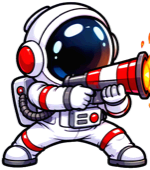
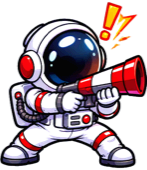
Quái vật chọi đá lại, phi hành gia ngã; thay hình phi hành gia mới
Bắn trật thì con quái không chỉ nhe răng cười nữa: nó vung tay chọi một hòn
đá xuống, đá bay xoay tròn trúng đầu phi hành gia, nổ mảnh vụn, phi hành gia
bật ngửa rồi nằm bệt sao bay quanh đầu. Nhịp chờ khi sai nới từ 2,2 lên 2,8
giây cho bé kịp xem hết.

Hình mới
- Thay phi hành gia cũ bằng bản mới cắt gọn hơn (bản cũ bị xén mất một phần
  tia lửa đầu nòng), thêm hai dáng: trúng đá và nằm ngã.
- Cắt thêm 15 dáng quái đang ném đá từ tấm sticker mới, cộng hòn đá và mảnh
  vụn. Giờ mỗi con quái có ba trạng thái: dữ tợn, đang ném, bị hạ.

Hai chỗ phải xử lý
- Luật "giữ mảnh lớn nhất" lúc cắt làm mấy con quái mất tròng mắt, vì con
  ngươi là mảnh rời nằm lọt trong tròng trắng. Giờ giữ thêm mảnh nhỏ nào nằm
  trọn trong khung thân quái, nhưng vẫn bỏ hòn đá và vệt tốc độ ở ngoài.
- Ảnh đang ẩn bị trình duyệt để tới lúc cần mới tải, đổi dáng xong trống mất
  một nhịp. Nạp trước toàn bộ ảnh ngay khi dựng màn.
- Ba con quái cao thấp khác nhau nên nhãn đáp án so le; cho ảnh vào ô cao cố
  định và đặt sát đáy, nhãn thẳng một hàng.

check-vu-tru.js kiểm 45 tệp quái (3 trạng thái × 15 con), tám tệp hiệu ứng,
và đòi man-ban.js phải có đoạn chọi đá cùng đủ ba dáng phi hành gia.

diff --git a/js/man-ban.js b/js/man-ban.js
@@ -85,17 +85,18 @@
     var quaiDS = nhanDS.map(function (nhan, i) {
       var o = el('div', 'con-quai');
       o.dataset.nhan = nhan;
-      var hs = anh('quai/' + tenQuai[i] + '-song.png', 'quai-hinh hinh-song');
-      var hc = anh('quai/' + tenQuai[i] + '-chet.png', 'quai-hinh hinh-chet');
-      o.appendChild(hs);
-      o.appendChild(hc);
+      o.appendChild(anh('quai/' + tenQuai[i] + '-song.png', 'quai-hinh hinh-song'));
+      o.appendChild(anh('quai/' + tenQuai[i] + '-nem.png', 'quai-hinh hinh-nem'));
+      o.appendChild(anh('quai/' + tenQuai[i] + '-chet.png', 'quai-hinh hinh-chet'));
       o.appendChild(el('span', 'quai-nhan', nhan));
       dau.appendChild(o);
       return o;
     });
 
-    var phg = el('div', 'phi-hanh-gia');
-    phg.appendChild(anh('phi-hanh-gia.png', 'phg-hinh'));
+    var phg = el('div', 'phi-hanh-gia dang-ngam');
+    phg.appendChild(anh('phi-hanh-gia.png', 'phg-hinh hinh-ngam'));
+    phg.appendChild(anh('phg-trung.png', 'phg-hinh hinh-trung'));
+    phg.appendChild(anh('phg-nga.png', 'phg-hinh hinh-nga'));
     phg.appendChild(anh('lua-sung.png', 'phg-lua'));
     dau.appendChild(phg);
     san.appendChild(dau);
@@ -139,6 +140,7 @@
         o.style.width = Math.round(rongQuai) + 'px';
         o.style.left = Math.round((i + 0.5) / n * rong - rongQuai / 2) + 'px';
         o.style.top = Math.round(Math.max(8, cao * 0.05)) + 'px';
+        o.style.height = '116px';
       });
       x = Math.min(Math.max(x || (rong / 2 - RONG_PHG / 2), 4), rong - RONG_PHG - 4);
       return true;
@@ -227,12 +229,61 @@
         dau.appendChild(tim);
       } else {
         muc.classList.add('nhon-nhao');
+        choiDaLai(muc);
         var oDung = quaiDS.filter(function (o) { return o.dataset.nhan === String(cau.answer); })[0];
-        if (oDung) setTimeout(function () { oDung.classList.add('chi-ra'); }, 500);
+        if (oDung) setTimeout(function () { oDung.classList.add('chi-ra'); }, 900);
       }
 
       thaoPhim();
       if (tuyChon.khiTraLoi) tuyChon.khiTraLoi(dung, nhan, phanHoi);
+    }
+
+    /* --- bắn trật thì con quái chọi đá lại, phi hành gia ngã --- */
+    function choiDaLai(muc) {
+      setTimeout(function () {
+        if (!dau.isConnected) return;
+        muc.classList.remove('nhon-nhao');
+        muc.classList.add('dang-nem');
+
+        var tuX = muc.offsetLeft + muc.offsetWidth * 0.78;
+        var tuY = muc.offsetTop + muc.offsetHeight * 0.5;
+        var toiX = x + RONG_PHG * 0.5;
+        var toiY = cao - 10 - CAO_PHG * 0.62;
+
+        var da = anh('da.png', 'hon-da');
+        da.style.left = tuX + 'px';
+        da.style.top = tuY + 'px';
+        dau.appendChild(da);
+
+        requestAnimationFrame(function () {
+          da.style.transition = 'transform 0.42s cubic-bezier(0.35, 0, 0.9, 1)';
+          da.style.transform = 'translate(-50%,-50%) translate(' + (toiX - tuX) + 'px,' +
+            (toiY - tuY) + 'px) rotate(540deg)';
+        });
+
+        setTimeout(function () {
+          if (da.parentNode) da.parentNode.removeChild(da);
+          if (!dau.isConnected) return;
+          // trúng đá: bật ngửa ra rồi nằm luôn
+          doiDangPhg('trung');
+          var vun = anh('da-vun.png', 'da-vun-bay');
+          vun.style.left = toiX + 'px';
+          vun.style.top = toiY + 'px';
+          dau.appendChild(vun);
+          setTimeout(function () { if (vun.parentNode) vun.parentNode.removeChild(vun); }, 620);
+          setTimeout(function () {
+            if (dau.isConnected) doiDangPhg('nga');
+          }, 360);
+        }, 440);
+      }, 240);
+    }
+
+    var dangPhg = 'ngam';
+    function doiDangPhg(d) {
+      if (d === dangPhg) return;
+      phg.classList.remove('dang-' + dangPhg);
+      phg.classList.add('dang-' + d);
+      dangPhg = d;
     }
 
     /* --- nút bấm và bàn phím --- */
@@ -276,6 +327,19 @@
       document.removeEventListener('keydown', nghePhim);
       document.removeEventListener('keyup', thaPhim);
     }
+
+    // Ảnh đang ẩn thì trình duyệt hay để tới lúc cần mới tải, đổi dáng xong
+    // lại trống một nhịp. Nạp trước hết cho chắc.
+    tenQuai.forEach(function (t) {
+      ['song', 'nem', 'chet'].forEach(function (d) {
+        var i = new Image();
+        i.src = GOC + 'assets/vu-tru/quai/' + t + '-' + d + '.png';
+      });
+    });
+    ['phg-trung', 'phg-nga', 'da', 'da-vun', 'ten-lua', 'no'].forEach(function (t) {
+      var i = new Image();
+      i.src = GOC + 'assets/vu-tru/' + t + '.png';
+    });
 
     if (doSan()) { datChoPhg(); ngam(); }
     hen = requestAnimationFrame(vong);

diff --git a/css/style.css b/css/style.css
@@ -2821,19 +2821,32 @@ body.khoa-cuon { overflow: hidden; }
   transition: transform 0.18s ease;
 }
 
+/* Ba con quái cao thấp khác nhau, nhưng nhãn đáp án phải thẳng một hàng thì
+   nhìn mới gọn, nên cho ảnh vào một ô cao cố định và đặt sát đáy ô. */
 .con-quai .quai-hinh {
   display: block;
-  width: 100%;
-  height: auto;
+  width: auto;
+  max-width: 100%;
+  height: 84px;
+  margin-top: auto;
   filter: drop-shadow(0 4px 6px rgba(0, 0, 0, 0.5));
   pointer-events: none;
 }
 
-.con-quai .hinh-chet { display: none; }
-.con-quai.da-chet .hinh-song { display: none; }
+.con-quai .hinh-chet, .con-quai .hinh-nem { display: none; }
+.con-quai.da-chet .hinh-song, .con-quai.dang-nem .hinh-song { display: none; }
 .con-quai.da-chet .hinh-chet { display: block; }
+.con-quai.dang-nem .hinh-nem { display: block; }
+.con-quai.dang-nem { animation: quai-vung-tay 0.4s ease-out; }
+
+@keyframes quai-vung-tay {
+  0% { transform: scale(1); }
+  40% { transform: scale(1.12) translateX(-4px); }
+  100% { transform: scale(1); }
+}
 
 .con-quai .quai-nhan {
+  flex: none;
   margin-top: -6px;
   padding: 2px 10px;
   border-radius: 999px;
@@ -2885,10 +2898,26 @@ body.khoa-cuon { overflow: hidden; }
 .phi-hanh-gia .phg-hinh {
   position: absolute;
   bottom: 0;
-  left: 0;
-  width: 100%;
-  height: auto;
+  left: 50%;
+  display: none;
+  width: auto;
+  height: 76px;
+  transform: translateX(-50%);
   filter: drop-shadow(0 3px 5px rgba(0, 0, 0, 0.5));
+}
+
+.phi-hanh-gia.dang-ngam .hinh-ngam,
+.phi-hanh-gia.dang-trung .hinh-trung,
+.phi-hanh-gia.dang-nga .hinh-nga { display: block; }
+
+/* bị đá đập trúng thì bật ngửa ra sau rồi nằm bệt */
+.phi-hanh-gia.dang-trung .hinh-trung { height: 80px; animation: phg-bat-nguoc 0.42s ease-out; }
+.phi-hanh-gia.dang-nga .hinh-nga { height: 62px; }
+
+@keyframes phg-bat-nguoc {
+  0% { transform: translateX(-50%) translateY(0) rotate(0); }
+  45% { transform: translateX(-50%) translateY(-16px) rotate(-14deg); }
+  100% { transform: translateX(-50%) translateY(0) rotate(-6deg); }
 }
 
 .phi-hanh-gia .phg-lua {
@@ -2917,6 +2946,32 @@ body.khoa-cuon { overflow: hidden; }
   height: 56px;
   width: auto;
   pointer-events: none;
+}
+
+.hon-da {
+  position: absolute;
+  z-index: 3;
+  height: 32px;
+  width: auto;
+  pointer-events: none;
+  transform: translate(-50%, -50%);
+  filter: drop-shadow(0 2px 3px rgba(0, 0, 0, 0.5));
+}
+
+.da-vun-bay {
+  position: absolute;
+  z-index: 4;
+  height: 48px;
+  width: auto;
+  pointer-events: none;
+  transform: translate(-50%, -50%);
+  animation: vun-bung 0.6s ease-out forwards;
+}
+
+@keyframes vun-bung {
+  0% { opacity: 0; transform: translate(-50%, -50%) scale(0.3); }
+  30% { opacity: 1; transform: translate(-50%, -50%) scale(1.1); }
+  100% { opacity: 0; transform: translate(-50%, -50%) scale(1.5); }
 }
 
 .vu-no {

diff --git a/js/game-vu-tru.js b/js/game-vu-tru.js
@@ -248,7 +248,8 @@
       if (van.nhienLieu <= 0) return canNhienLieu();
       van.dangChuyen = true; ve(); van.dangChuyen = false;
       setTimeout(raCauHoi, 300);
-    }, 2200);
+      // chờ lâu hơn chút: còn phải xem con quái chọi đá và phi hành gia ngã
+    }, 2800);
   }
 
   /* ---------- Tới nơi / cạn nhiên liệu ---------- */
